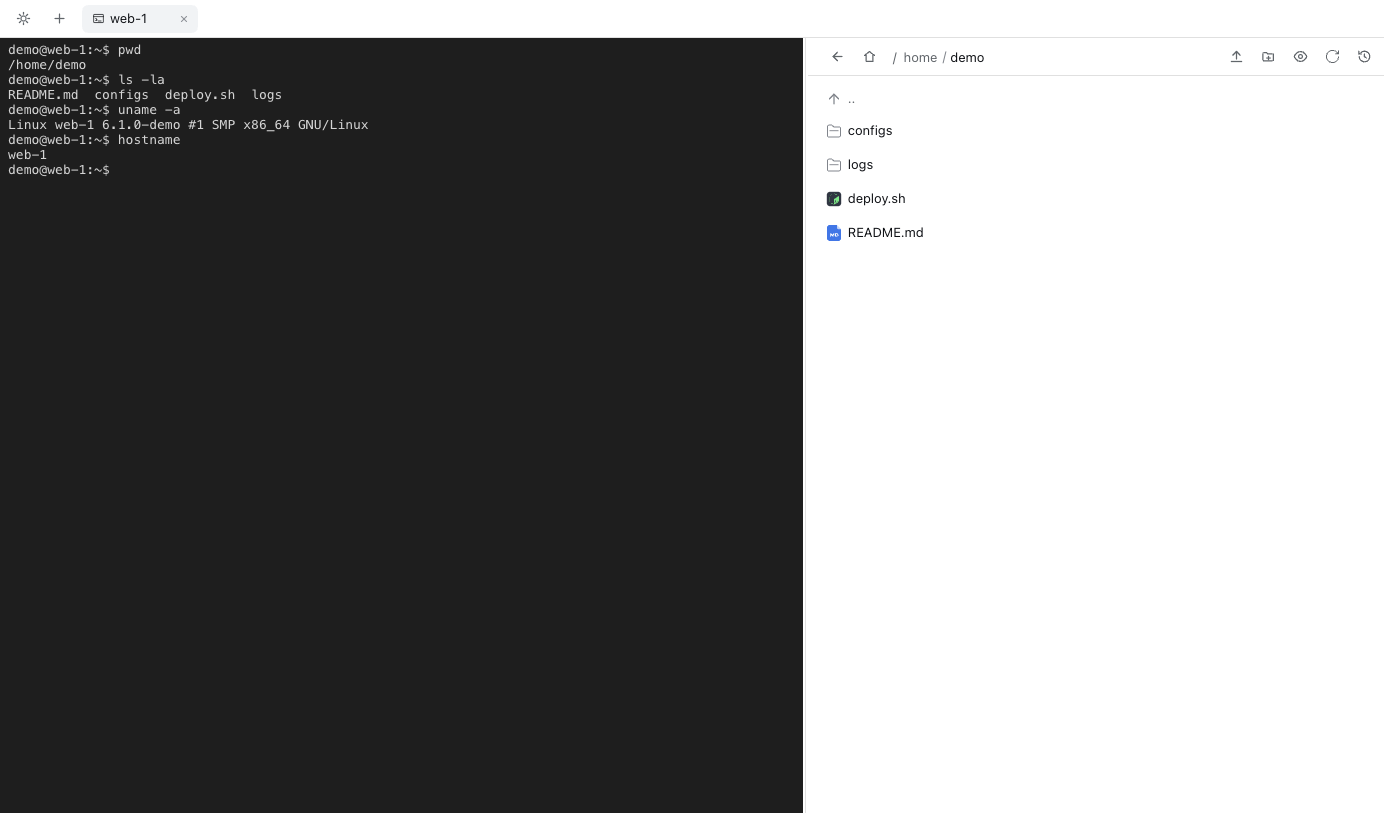
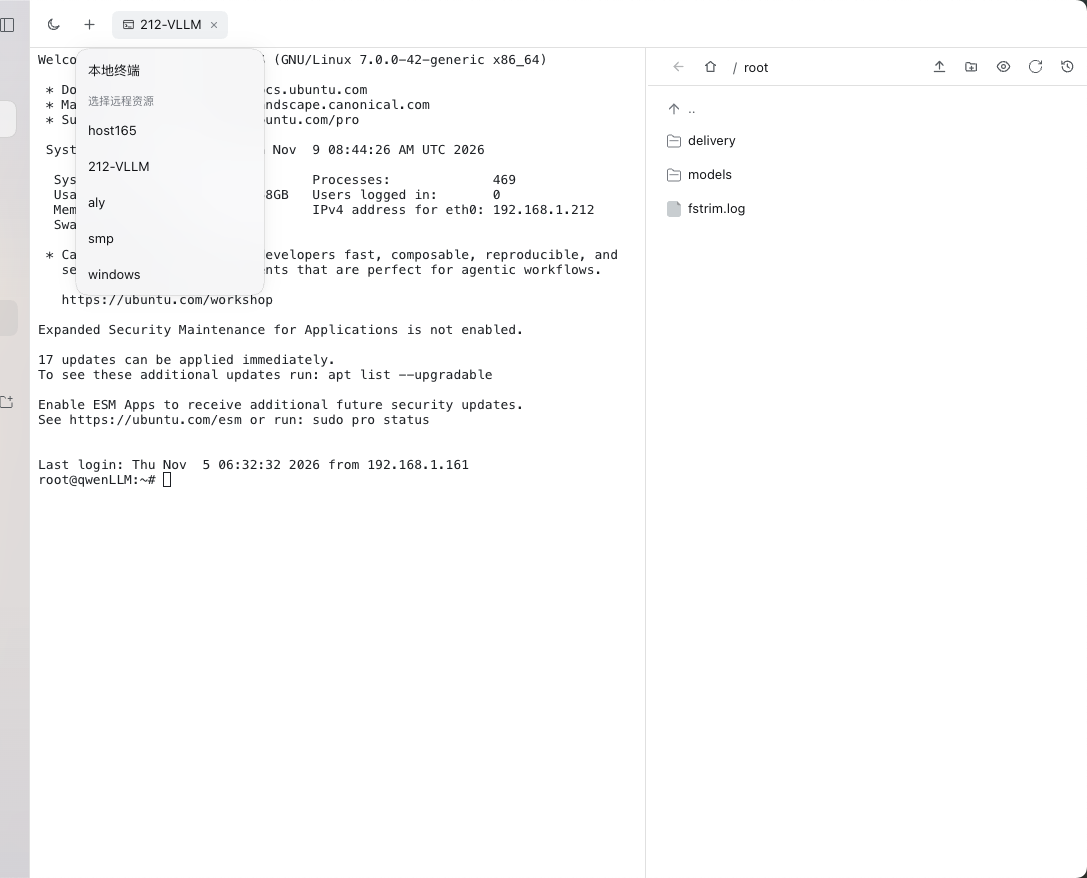
docs: refresh remote workbench and @resource screenshots

diff --git a/README.md b/README.md
@@ -9,9 +9,9 @@ DeepSeek Harness 的**远程工作台**：SSH 终端、本地与远程文件、@
 - 适用：DSH 0.2.1-rc.1 ～ 0.2.x（`engines.dsh: >=0.2.1-rc.1 <0.3.0`）
 - 平台：macOS / Linux / Windows 上的 DSH；远程目标支持 POSIX 与 Windows（PowerShell）
 
-![远程工作台：左侧终端，右侧文件管理](docs/images/workbench.png)
+![远程工作台：远程 SSH 终端与 SFTP 文件管理](docs/images/remote-workbench.png)
 
-![远程 SSH 终端与 SFTP：连接到 web-1 后浏览 home 目录](docs/images/remote-workbench.png)
+![在对话里 @资源 执行，结果直接回到会话](docs/images/chat-at-resource.png)
 
 ## 能力
 
